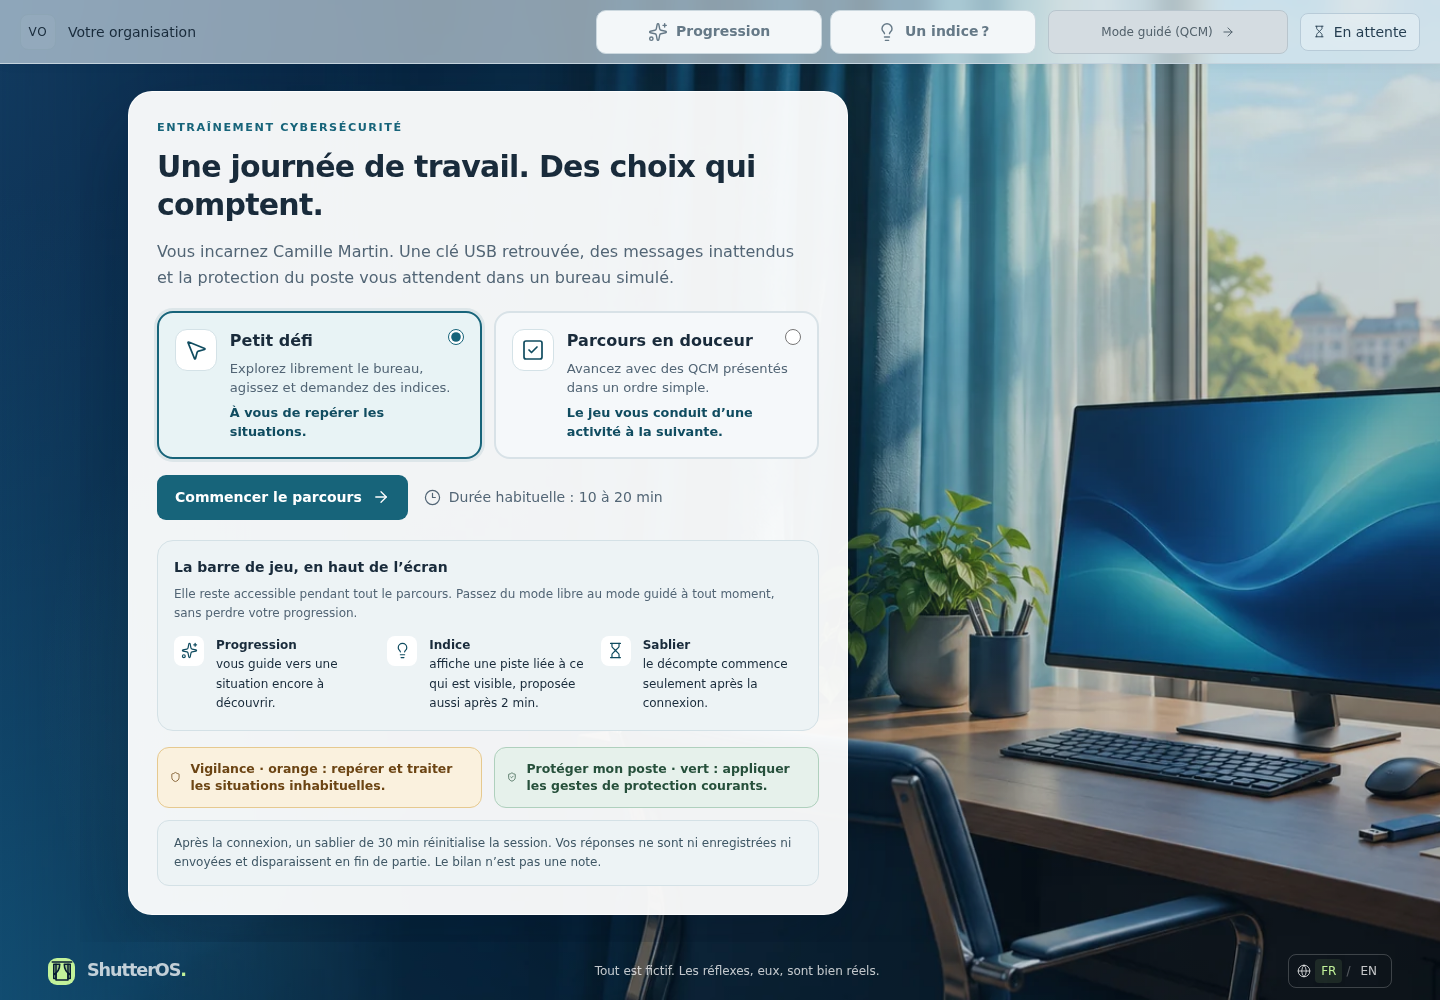
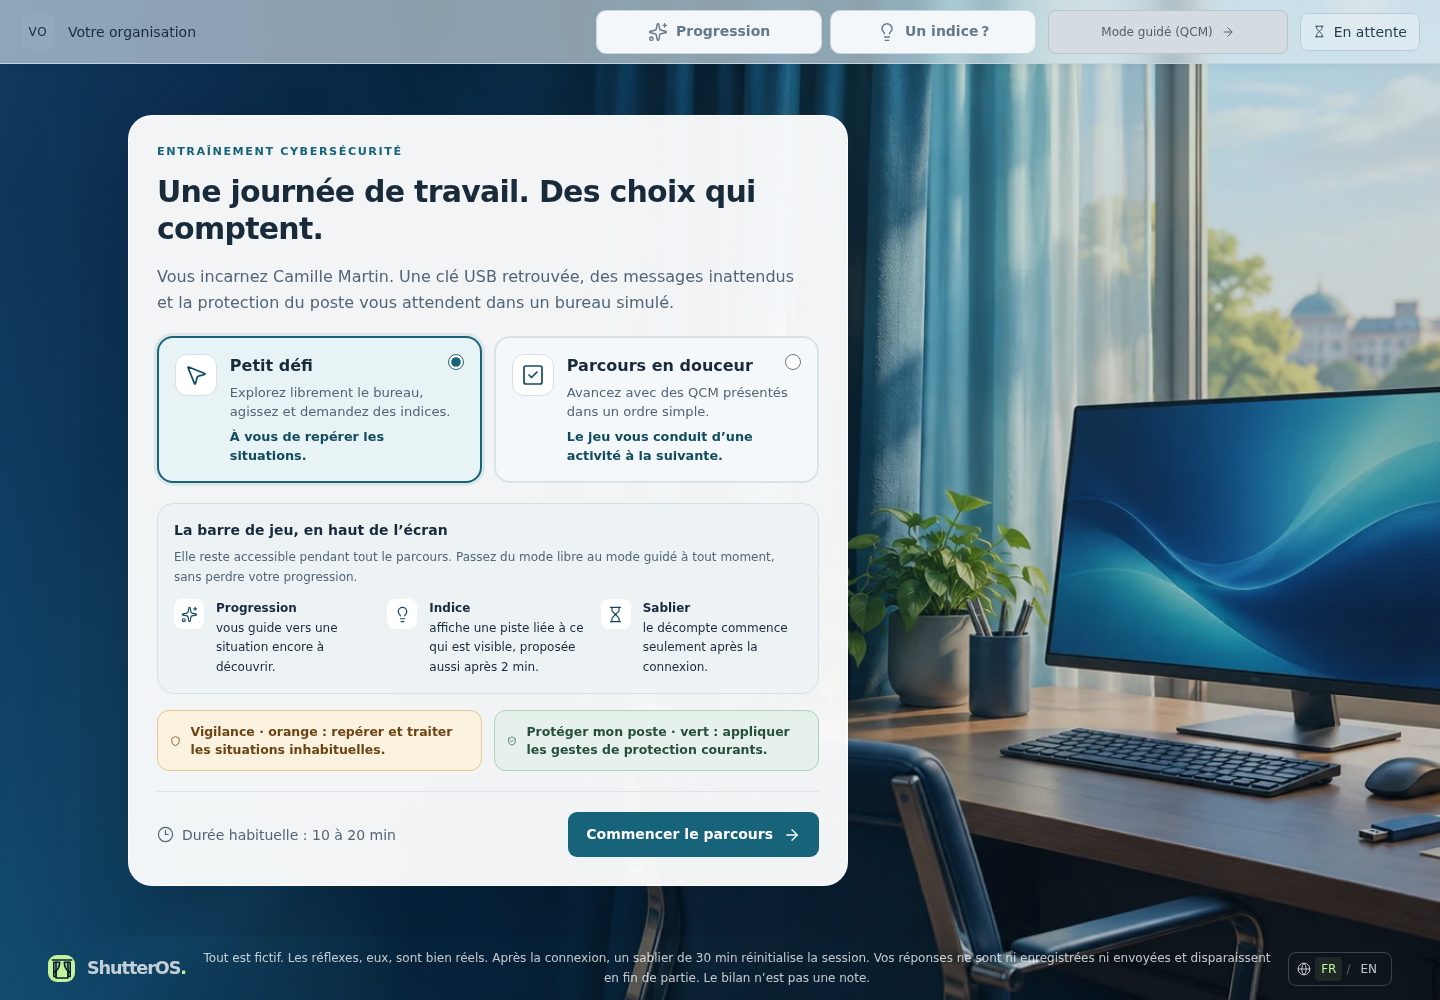
fix(welcome): clarify content hierarchy and start action

diff --git a/packages/components/src/screens/Welcome.svelte b/packages/components/src/screens/Welcome.svelte
@@ -94,15 +94,6 @@
         {/each}
       </div>
 
-      <div class="mt-4 flex flex-wrap items-center gap-4">
-        <button class="button button-primary" onclick={() => dispatch({ type: 'begin' })}>
-          {copy.welcome.begin}<Icon name="arrow" size={18} />
-        </button>
-        <span class="text-muted flex items-center gap-2 text-sm"
-          ><Icon name="clock" size={17} />{copy.welcome.duration}</span
-        >
-      </div>
-
       <aside class="topbar-explainer mt-5 rounded-2xl p-4" aria-label={copy.welcome.controls.title}>
         <p class="text-sm font-semibold">{copy.welcome.controls.title}</p>
         <p class="text-muted mt-2 text-xs leading-relaxed">{copy.welcome.controls.introduction}</p>
@@ -130,21 +121,31 @@
           <Icon name="secure" size={18} />{copy.welcome.families.protection}
         </p>
       </div>
-      <p class="welcome-privacy mt-3 text-xs leading-relaxed">
-        {copy.welcome.reset(config.sessionDurationMs / 60_000)}
-      </p>
       {#if snapshot.reason !== 'initial'}
         <p class="welcome-reset mt-5 text-sm" role="status">
           {snapshot.reason === 'expired' ? copy.welcome.expired : copy.welcome.loggedOut}
         </p>
       {/if}
+      <div class="welcome-start mt-5 border-t border-[var(--line)] pt-5">
+        <div class="flex flex-wrap items-center justify-between gap-4">
+          <span class="text-muted flex items-center gap-2 text-sm">
+            <Icon name="clock" size={17} />{copy.welcome.duration}
+          </span>
+          <button class="button button-primary ml-auto" onclick={() => dispatch({ type: 'begin' })}>
+            {copy.welcome.begin}<Icon name="arrow" size={18} />
+          </button>
+        </div>
+      </div>
     </section>
   </div>
   <footer
     class="welcome-footer relative z-10 flex flex-wrap items-center justify-between gap-4 px-5 py-3 text-xs text-white/75 sm:px-9 lg:px-12"
   >
     <Brand name={branding.applicationName} />
-    <span>{copy.fictional}</span>
+    <p class="order-last w-full text-center leading-relaxed sm:order-none sm:w-auto sm:flex-1">
+      {copy.fictional}
+      {copy.welcome.reset(config.sessionDurationMs / 60_000)}
+    </p>
     <Language />
   </footer>
 </main>

diff --git a/packages/components/src/theme.css b/packages/components/src/theme.css
@@ -1803,8 +1803,7 @@ button:active:not(:disabled) {
   color: var(--accent-strong);
   font-weight: 650;
 }
-.topbar-explainer,
-.welcome-privacy {
+.topbar-explainer {
   background: #edf3f5;
   border: 1px solid #d4e1e6;
 }
@@ -1840,7 +1839,6 @@ button:active:not(:disabled) {
   background: #e6f1eb;
   border: 1px solid #afd0bd;
 }
-.welcome-privacy,
 .welcome-reset {
   padding: 0.8rem 1rem;
   color: #3f5765;
